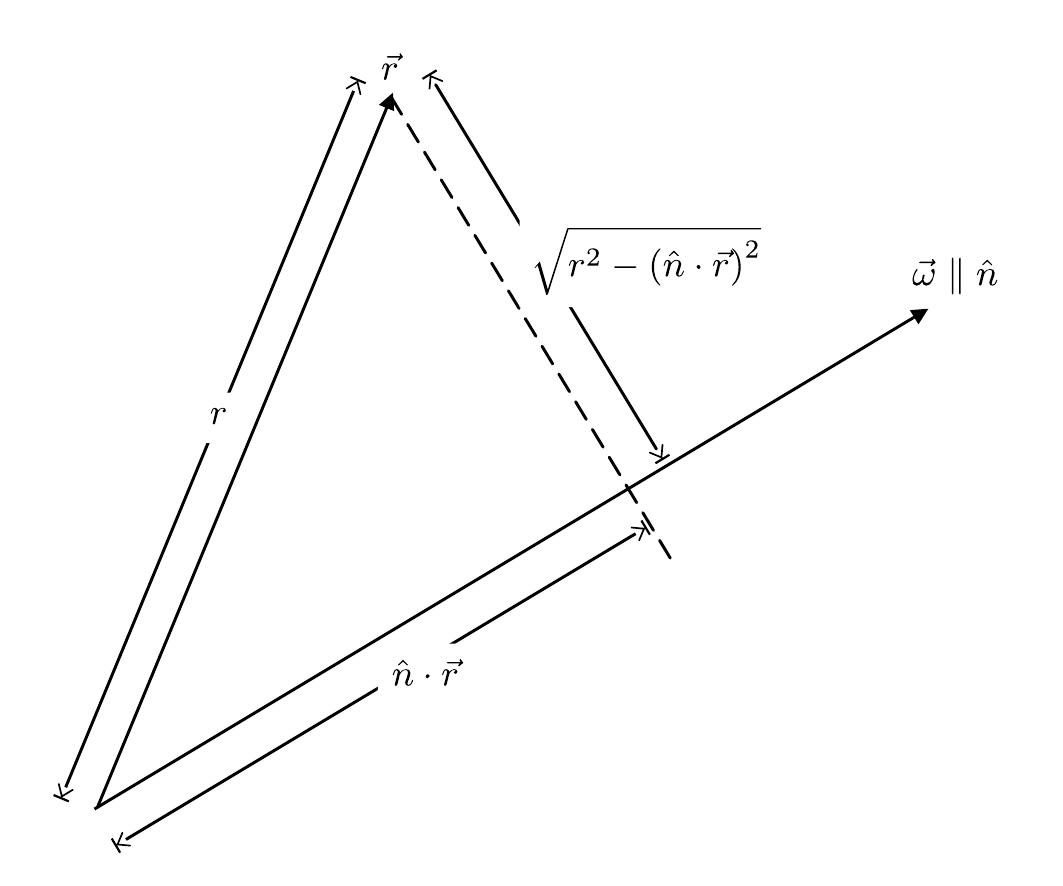
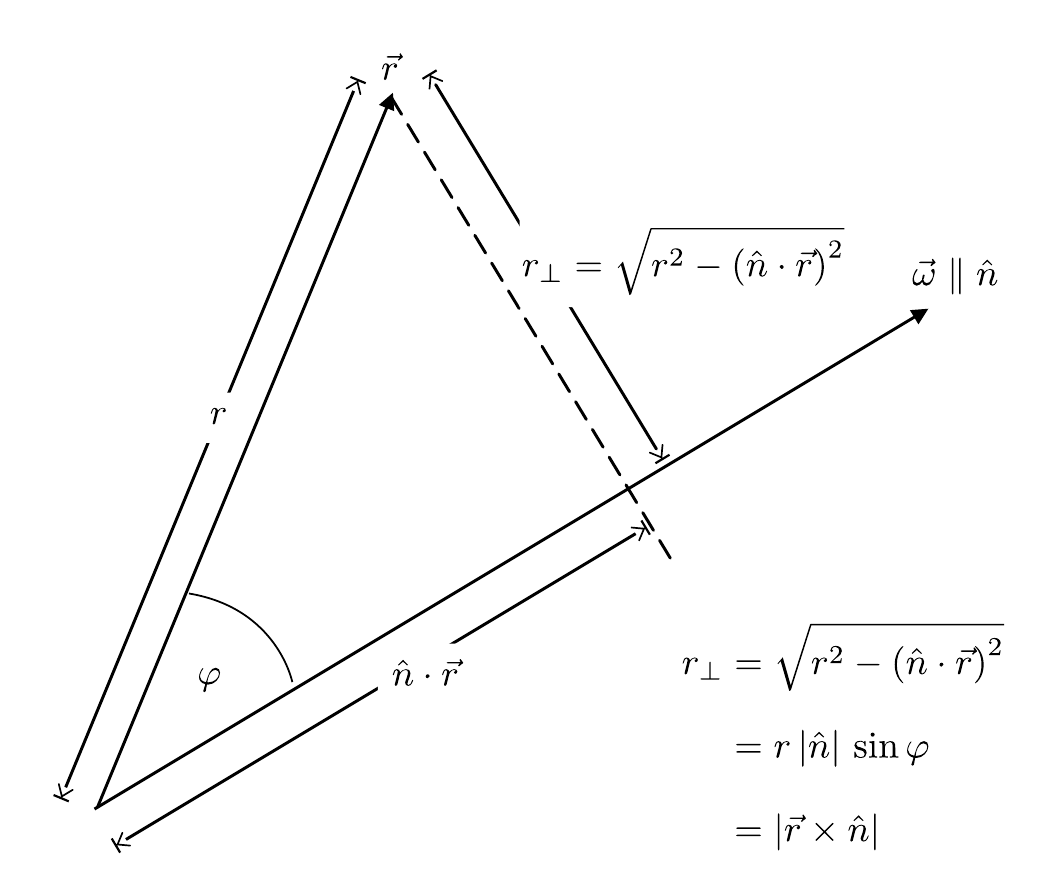
upload intermediate result to allow for a reasonable branch off

diff --git a/Kreisel/doc/Hinweise-Aufgabe-1.md b/Kreisel/doc/Hinweise-Aufgabe-1.md
@@ -2,15 +2,15 @@
 
 ## Aufgabe 1: Physik starrer Körper [1/2]
 
-### Von Winkelgeschwindigkeit bis Trägheitstensor
+### Winkelgeschwindigkeit und Trägheitstensor
 
-Zur Beschreibung der Dynamik des Massepunkts in der Mechanik verwenden wir die physikalischen Größen Geschwindigkeit $\vec{v}$, Impuls $\vec{p}$ und Kraft $\vec{F}$. Mit dem Kreisel betrachten wir einen ausgedehnten, starren Körper, in Rotation, zu dessen Beschreibung wir zu $\vec{v}$, $\vec{p}$ und $\vec{F}$ äquivalente Größen heranziehen:  
+Zur Beschreibung der Dynamik des Massepunkts in der Mechanik verwenden wir die physikalischen Größen Geschwindigkeit ($\vec{v}$), Impuls ($\vec{p}$) und Kraft ($\vec{F}$). Mit dem Kreisel betrachten wir einen ausgedehnten, starren Körper, in Rotation, zu dessen Beschreibung wir zu $\vec{v}$, $\vec{p}$ und $\vec{F}$ äquivalente Größen heranziehen:  
 
 - Das Äquivalent zu $\vec{v}$ ist die **Winkelgeschwindigkeit** $\vec{\omega}$; 
 - das Äquivalent zu $\vec{p}$ ist der **Drehimpuls** $\vec{L}$; und 
 - das Äquivalent zu $\vec{F}$ ist das **Drehmoment** $\vec{M}$.  
 
-Für ein gegebenes Massenelement $\delta m$ wird der Zusammenhang dieser Größen zueinander durch das äußere Produkt ([Kreuzprodukt](https://de.wikipedia.org/wiki/Kreuzprodukt)) "$\times$" mit dem Ortsvektor $\vec{r}$ des Massenelements hergestellt: 
+Für ein gegebenes Massenelement $\mathrm{d}m$ wird der Zusammenhang dieser Größen zueinander durch das äußere Produkt ([Kreuzprodukt](https://de.wikipedia.org/wiki/Kreuzprodukt)) "$\times$" mit dem Ortsvektor $\vec{r}$ des Massenelements hergestellt: 
 $$
 \begin{equation*}
 \vec{v} = \vec{r}\times \vec{\omega}; \qquad
@@ -18,28 +18,28 @@ $$
 \vec{M} = \vec{r}\times \vec{F}. \\
 \end{equation*}
 $$
-Ein Zusammenhang zwischen $\vec{L}$ und $\vec{\omega}$ ergibt sich aus
+Ein Zusammenhang zwischen $\vec{L}$ und $\vec{\omega}$ ergibt sich daraus zu 
 $$
 \begin{equation}
-\vec{L} = \vec{r}\times\vec{p} = \delta m\left(\vec{r}\times\vec{v}\right) = \delta m\left(\vec{r}\times\left(\vec{r}\times\vec{\omega}\right)\right).
+\vec{L} = \vec{r}\times\vec{p} = \mathrm{d}m \left(\vec{r}\times\vec{v}\right) = \mathrm{d}m \left(\vec{r}\times\left(\vec{r}\times\vec{\omega}\right)\right).
 \end{equation}
 $$
-Um das doppelte Kreuzprodukt in Gleichung **(1)** weiter zu verstehen, können wir auf eine Regel aus der [analytischen Geometrie](https://de.wikipedia.org/wiki/Analytische_Geometrie) (die sog. "bac-cab"-Regel) zurückgreifen:
+Um das doppelte Kreuzprodukt in Gleichung **(1)** weiter zu aufzulösen, können wir auf eine Regel aus der [analytischen Geometrie](https://de.wikipedia.org/wiki/Analytische_Geometrie) (die sog. "bac-cab"-Regel) zurückgreifen:
 $$
 \begin{equation*}
 \vec{a}\times\vec{b}\times\vec{c} = \big(\vec{b}\cdot\vec{a}\big)\,\vec{c} - \big(\vec{c}\cdot\vec{a}\big)\,\vec{b}
 \end{equation*}
 $$
-Das Kreuzprodukt $\vec{b}\times\vec{c}$ kann durch einen Vektor $\vec{\kappa}$ beschrieben werden, der senkrecht auf die aus $\vec{b}$ und $\vec{c}$ aufgespannte Ebene steht. Das erneute Kreuzprodukt $\vec{a}\times\vec{\kappa}$ führt auf einen Vektor, der wiederum in diese Ebene fällt. Als Konsequenz kann dieser Vektor als eine Linearkombination aus $\vec{b}$ und $\vec{c}$ geschrieben werden. Die Linearkombination ergibt sich aus den vorangestellten [Skalarprodukten](https://de.wikipedia.org/wiki/Skalarprodukt). 
+Das Kreuzprodukt $\vec{b}\times\vec{c}$ kann durch einen Vektor $\vec{\kappa}$ beschrieben werden, der senkrecht auf die aus $\vec{b}$ und $\vec{c}$ aufgespannte Ebene steht. Das erneute Kreuzprodukt $\vec{a}\times\vec{\kappa}$ führt auf einen Vektor, der wiederum in diese Ebene fällt. Als Konsequenz kann dieser Vektor als eine Linearkombination aus $\vec{b}$ und $\vec{c}$ geschrieben werden. Diese Linearkombination ergibt sich aus den vorangestellten [Skalarprodukten](https://de.wikipedia.org/wiki/Skalarprodukt). 
 
 Anwendung auf Gleichung **(1)** führt auf: 
 $$
 \begin{equation}
 \begin{split}
-&\vec{L} = \delta m\left(r^{2}\vec{\omega} - \big(\vec{\omega}\cdot\vec{r}\big)\vec{r}\right)\\
+&\vec{L} = \mathrm{d}m \left(r^{2}\vec{\omega} - \big(\vec{\omega}\cdot\vec{r}\big)\vec{r}\right)\\
 &\\
-&L_{i} = \underbrace{\delta m\left(r^{2}\delta_{ij} - r_{i}r_{j}\right)}\omega_{j}.\\
-&\hphantom{L_{i} = \delta m\,r^{2}\,\,}\equiv \Theta_{ij}\\
+&L_{i} = \underbrace{\mathrm{d}m \left(r^{2}\delta_{ij} - r_{i}r_{j}\right)}\omega_{j}.\\
+&\hphantom{L_{i} = \mathrm{d}m \,r^{2}\,}\equiv \Theta_{ij}\\
 \end{split}
 \end{equation}
 $$
@@ -58,20 +58,21 @@ $$
 bezeichnen wir als [Trägheitstensor](https://de.wikipedia.org/wiki/Tr%C3%A4gheitstensor). Aufgrund seines Transformationsverhaltens unter Drehungen im Raum handelt es sich um einen Tensor 2. Stufe. Konkret als Matrix ausgeschrieben hat $\boldsymbol{\Theta}$ die Form: 
 $$
 \begin{equation}
-\boldsymbol{\Theta} = \delta m
+\boldsymbol{\Theta} = \mathrm{d}m
 \left(
 \begin{array}{ccc}
 r^{2}-x^{2} & x\,y & x\,z \\
 y\,x & r^{2}-y^{2} & y\,z \\
 z\,x & z\,y & r^{2}-z^{2} \\
 \end{array}
-\right)
+\right).
 \end{equation}
 $$
+Der Trägheitstensor ist durch seine Konstruktion symmetrisch ($\Theta_{ij}=\Theta_{ji}$). Die drei Diagonalelemente von $\boldsymbol{\Theta}$ (die wir im Folgenden auch mit $(\theta_{i};\hspace{0.1cm}i=x,y,z)$ bezeichnen werden) heissen [Trähgeitsmomente](https://de.wikipedia.org/wiki/Tr%C3%A4gheitsmoment). Die drei nicht-diagonalen Elemente heissen [Deviationsmomente](https://de.wikipedia.org/wiki/Deviationsmoment).
 
-### Bestimmung von $\vec{L}$ aus $\vec{\omega}$ als Eigenwertproblem  
+### Eigenwertproblem  
 
-Bei Gleichung **(2)** handelt es sich um ein gekoppeltes [lineares Gleichungssystem](https://de.wikipedia.org/wiki/Lineares_Gleichungssystem) der Form
+Schreibt man Gleichung **(2)** aus erhält man ein gekoppeltes [lineares Gleichungssystem](https://de.wikipedia.org/wiki/Lineares_Gleichungssystem) der Form
 $$
 \begin{equation}
 \left(
@@ -96,38 +97,40 @@ L_{z} \\
 \omega_{y} \\
 \omega_{z} \\
 \end{array}
-\right)
+\right),
 \end{equation}
 $$
-für das $\boldsymbol{\Theta}$ einer linearen Abbildung von $\mathbb{R}^{3}\to\mathbb{R}^{3}$ in der Darstellung einer $3\times3$-Matrix entspricht. In bestimmten Fällen kann ein solches Gleichungssystem, durch geeignete Transformationen 
+wofür wir $\boldsymbol{\Theta}$ als $3\times3$-Matrix verwendet haben. In bestimmten Fällen kann ein solches Gleichungssystem, durch eine Transformation $\bold{U}$ auf eine geeignete Basis 
 $$
 \begin{equation*}
-\boldsymbol{\widetilde{\Theta}} = \bold{U}^{-1}\cdot\boldsymbol{\Theta}\cdot\bold{U}
+\boldsymbol{\widetilde{\Theta}} = \bold{U}\cdot\boldsymbol{\Theta}\cdot\bold{U}^{-1}
 \end{equation*}
 $$
-entkoppelt werden, so dass $\boldsymbol{\widetilde{\Theta}}$ die Form einer [Diagonalmatrix](https://de.wikipedia.org/wiki/Diagonalmatrix) annimmt. Die Suche nach solchen Abbildungen $\bold{U}$ bezeichnet man als [Eigenwertproblem](https://de.wikipedia.org/wiki/Eigenwerte_und_Eigenvektoren). Die Matrix $\bold{U}$ führt die Basisvektoren des Vektors 
+entkoppelt werden, so dass $\boldsymbol{\widetilde{\Theta}}$ die Form einer [Diagonalmatrix](https://de.wikipedia.org/wiki/Diagonalmatrix) annimmt. Die Suche nach solchen Abbildungen $\bold{U}$ bezeichnet man als [Eigenwertproblem](https://de.wikipedia.org/wiki/Eigenwerte_und_Eigenvektoren). Die Matrix $\boldsymbol{\widetilde{\Theta}}$ führt die Basisvektoren des Vektors 
 $$
 \begin{equation*}
 \vec{\tilde{\omega}} = \bold{U}\cdot\vec{\omega}
 \end{equation*}
 $$
-bis auf die Multiplikation mit dem Eigenwert $\theta_{i}$ in sich selbst über. Die Transformation $\bold{U}$ entspricht also einem Wechsel in eine Einheitsbasis, die durch $\boldsymbol{\widetilde{\Theta}}$ in sich selbst abgebildet wird. 
+bis auf die Multiplikation mit dem Eigenwert $\theta_{i}$ in sich selbst über. Die Transformation $\bold{U}$ entspricht also einem Wechsel von einer beliebigen Orthonormalbasis in eine Orthonormalbasis, die durch $\boldsymbol{\widetilde{\Theta}}$ in sich selbst abgebildet wird. 
 
-Wie Sie sich selbst aus Gleichung **(3)** überzeugen können besitzt der Trägheitstensor die Eigenschaft **symmetrisch** zu sein, was für die Lösung des Eigenwertproblems weitreichende Konsequenzen hat: 
+### Hauptachsentransformation
 
-- Für symmetrische Abbildung ist das Eigenwertproblem **immer lösbar**. Unter den Eigenwerten kann jedoch [Entartung](https://de.wikipedia.org/wiki/Eigenwerte_und_Eigenvektoren#Berechnung_der_Eigenwerte) vorliegen. 
+Die Eigenschaft, dass der Trägheitstensor aus Gleichung **(3)** **symmetrisch** ist, hat für die Lösung des Eigenwertproblems die folgenden weitreichenden Konsequenzen: 
+
+- Für symmetrische Abbildung ist das Eigenwertproblem **immer lösbar**. Die Eigenwerte können allerdings n-fach [entartet](https://de.wikipedia.org/wiki/Eigenwerte_und_Eigenvektoren#Berechnung_der_Eigenwerte) vorliegen. 
 - Die Eigenwerte sind **immer reell**.
 - Die durch die zugehörigen Eigenvektoren aufgespannten Unterräume stehen **immer senkrecht aufeinander**.
 
-Die Matrizen $\bold{U}$ zur Diagonalisierung von $\boldsymbol{\Theta}$ sind Rotationsmatrizen $\bold{R}$ mit der definierenden Eigenschaft: 
+Die Matrizen $\bold{U}$ zur Diagonalisierung von $\boldsymbol{\Theta}$ sind in diesem Fall Rotationsmatrizen $\bold{R}$ mit der (definierenden) Eigenschaft: 
 $$
 \begin{equation*}
 \bold{R}^{-1} = \bold{R}^{\intercal}.
 \end{equation*}
 $$
-In diesem Fall hat die Lösung des Eigenwertproblems also eine **anschauliche geometrische Bedeutung**: 
+Die Lösung des Eigenwertproblems gewinnt dadurch eine **anschauliche geometrische Bedeutung**: 
 
-Es ist die Drehung von einem allgemeinen in ein spezielles Bezugssystem, in dem die Eigenvektoren des Problems parallel zu den [Hauptträgheitsachsen](https://de.wikipedia.org/wiki/Haupttr%C3%A4gheitsachse) des starren Körpers verlaufen. Diese Achsen sind durch die Form und Massenbelegung des Körpers vorgegeben. 
+Es handelt sich um die Drehung von einem allgemeinen in ein spezielles Bezugssystem, in dem die Eigenvektoren des Problems aus Gleichung **(2)** parallel zu den [Hauptträgheitsachsen](https://de.wikipedia.org/wiki/Haupttr%C3%A4gheitsachse) des starren Körpers verlaufen. Diese Achsen sind durch die Form und Massenbelegung des Körpers vorgegeben. 
 
 Das Eigenwertproblem erhält aufgrund dieser Besonderheiten den eigenen Namen [Hauptachsentransformation](https://de.wikipedia.org/wiki/Hauptachsentransformation). Nach Hauptachsentransformation hat Gleichung **(4)** die einfache Form: 
 $$
@@ -161,33 +164,9 @@ $$
 L_{i} = \theta_{i}\,\delta_{ij}\,\omega_{j}.
 \end{equation*}
 $$
-
-### Bestimmung eines beliebigen Trägheitsmoments aus dem Trägheitstensor
-
-Es macht nur Sinn von einem Trägheitsmoment $\theta_{\hat{n}}$ eines starren Körpers bezüglich einer Achse $\hat{n}$ zu sprechen, um die der Körper rotiert. Beim Trägheitstensor $\boldsymbol{\Theta}$ handelt es sich um eine lineare Abbildung von $\vec{\omega}$ auf $\vec{L}$, die i.a. als $3\times3$-Matrix dargestellt wird. Beim Trägheitsmoment $\theta_{\hat{n}}$ handelt es sich um eine Zahl.  Aus $\boldsymbol{\Theta}$ erhät man $\theta_{\hat{n}}$ aus der beidseitigen Multiplikation von $\boldsymbol{\Theta}$ mit $\hat{n}$:
-$$
-\begin{equation*}
-\begin{split}
-\theta &= \delta m \, n_{i}\left(r^{2}\delta_{ij}-r_{i}r_{j}\right)n_{j} \\
-&\\
-&=\delta m\,\left(r^{2}n_{i}^{2} - \big(n_{i}\, r_{i}\big)\big(n_{j}\,r_{j}\big)\right) \\
-&\\
-&=\delta m\,\left(r^{2}\hat{n}^{2} - \big(\hat{n}\cdot\vec{r}\big)^{2}\right) \\
-&\\
-&=\delta m\,\left(r^{2} - \big(\hat{n}\cdot\vec{r}\big)^{2}\right) \\
-\end{split}
-\end{equation*}
-$$
-Auch dieses Ergebnis hat eine anschauliche Bedeutung, wie in **Skizze 1** dargestellt:
-
-<img src="../figures/Trägheitsmoment.png" width="900" style="zoom:100%;" />
-
-**Skizze 1** (Anschauliche Bedeutung des Trägheitsmoments $\theta_{\hat{n}}$)
-
----
-
-Das Trägheitsmoment $\theta_{\hat{n}}$ jedes Massenelements $\delta m$ eines starren Körpers berechnet sich aus dessen Abstand $\vec{r}_{\perp}$ senkrecht zu $\hat{n}$.
+Die $\{\theta_{i}\}$ heisst in diesem Fall Hauptträgheitsmomente.
 
 # Navigation
 
-[Main](https://git.scc.kit.edu/etp-lehre/p1-for-students/-/tree/main/Geometrische_Optik) | [Weiter](https://git.scc.kit.edu/etp-lehre/p1-for-students/-/blob/main/Geometrische_Optik/doc/Hinweise-Aufgabe-1-a.md)
+[Main](https://gitlab.kit.edu/kit/etp-lehre/p1-praktikum/students/-/tree/main/Kreisel) | [Weiter](https://gitlab.kit.edu/kit/etp-lehre/p1-praktikum/students/-/blob/main/Kreisel/doc/Hinweise-Aufgabe-1.md)
+
